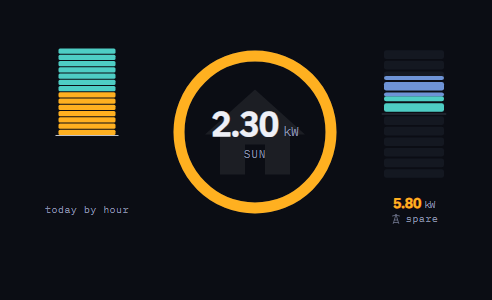
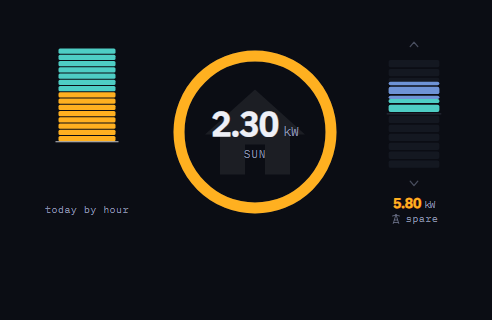
Mark which end of the column is out and which is in
The two directions were only named in the words underneath. Two small arrows
now sit above and below a needle column, in a band added to the window rather
than taken out of the track, so no existing geometry moved. They can be
switched off, and the day strip and the paired columns never get them: neither
has an up and a down to explain.

Making room for them exposed something older. The column was sized by height
with a fixed width, so a taller drawing was letterboxed and came out narrower
than the one beside it. Width is what a layout budgets for, so width is what
is set now and the height follows the drawing — the marks cost height, which
is what the helper text promised.

Claude-Session: https://claude.ai/code/session_01WYfcA1x3pZN41ubiYaXPxj

diff --git a/src/config.ts b/src/config.ts
@@ -31,6 +31,7 @@ export const DEFAULTS = {
     meter_steps: 6,
     meter_style: "blocks" as const,
     meter_today: false,
+    meter_marks: true,
     meter_second: "none" as const,
     meter_second_scope: "all" as const,
     meter_scope: "grid" as const,
@@ -525,7 +526,13 @@ export function getConfigForm(locale?: string, current?: PowerOriginCardConfig) 
             name: "meter_steps",
             selector: { number: { min: 3, max: 14, mode: "box" } }
           }),
-          ...only(gauge, { name: "meter_today", selector: { boolean: {} } })
+          ...only(gauge, {
+            type: "grid",
+            schema: [
+              { name: "meter_marks", selector: { boolean: {} } },
+              { name: "meter_today", selector: { boolean: {} } }
+            ]
+          })
         ]
       }
     ),
@@ -718,6 +725,7 @@ export function getConfigForm(locale?: string, current?: PowerOriginCardConfig) 
     meter_steps: t("editor.meter_steps"),
     meter_style: t("editor.meter_style"),
     meter_today: t("editor.meter_today"),
+    meter_marks: t("editor.meter_marks"),
     meter_second: t("editor.meter_second"),
     meter_second_scope: t("editor.meter_second_scope"),
     meter_scope: t("editor.meter_scope"),
@@ -767,6 +775,7 @@ export function getConfigForm(locale?: string, current?: PowerOriginCardConfig) 
     columns: t("editor.help_columns"),
     meter_scope: t("editor.help_meter_scope"),
     meter_today: t("editor.help_meter_today"),
+    meter_marks: t("editor.help_meter_marks"),
     meter_second: t("editor.help_meter_second"),
     meter_second_scope: t("editor.help_meter_second_scope"),
     size: t("editor.help_size"),

diff --git a/tests/render.test.ts b/tests/render.test.ts
@@ -663,3 +663,30 @@ describe("what a tap does", () => {
     expect(events).toEqual([]);
   });
 });
+
+describe("which end of the column is which", () => {
+  it("marks both ends, and makes room for the marks", async () => {
+    const { root } = await render(baseConfig({ ring: { meter: true } }), SCENARIOS[0]);
+    expect(root.querySelectorAll(".meter-mark").length).toBe(2);
+    // The band is added to the window, never taken out of the track.
+    expect(root.querySelector("svg.meter")!.getAttribute("viewBox")).toBe("-8 -18 104 236");
+  });
+
+  it("gives the height back when they are switched off", async () => {
+    const { root } = await render(
+      baseConfig({ ring: { meter: true, meter_marks: false } }),
+      SCENARIOS[0]
+    );
+    expect(root.querySelector(".meter-mark")).toBeNull();
+    expect(root.querySelector("svg.meter")!.getAttribute("viewBox")).toBe("0 0 88 200");
+  });
+
+  it("leaves the day strip alone, which has no up and down", async () => {
+    const foggy = SCENARIOS.find((s) => s.name === "foggy morning, three sources")!;
+    const { root } = await render(
+      baseConfig({ ring: { meter: true, meter_style: "day" } }),
+      foggy
+    );
+    expect(root.querySelector(".meter-mark")).toBeNull();
+  });
+});

diff --git a/src/localize.ts b/src/localize.ts
@@ -42,6 +42,8 @@ const en: Table = {
   "editor.column_right": "The right column",
   "editor.scope_left": "What the left column measures",
   "editor.scope_right": "What the right column measures",
+  "editor.meter_marks": "Out and in at the ends",
+  "editor.help_meter_marks": "Two small arrows at the top and bottom of the column, so which end means which needs no reading. They take a little of the column's height.",
   "meter.day": "today by hour",
   "meter.balance": "roof against house",
   "meter.spare": "roof spare",
@@ -257,6 +259,8 @@ const de: Table = {
   "editor.column_right": "Die rechte Säule",
   "editor.scope_left": "Was die linke Säule misst",
   "editor.scope_right": "Was die rechte Säule misst",
+  "editor.meter_marks": "Raus und rein an den Enden",
+  "editor.help_meter_marks": "Zwei kleine Pfeile oben und unten an der Säule, damit man nicht lesen muss, welches Ende was bedeutet. Sie kosten ein wenig Säulenhöhe.",
   "meter.day": "heute nach Stunden",
   "meter.balance": "Dach gegen Haus",
   "meter.spare": "Dach übrig",

diff --git a/src/styles.ts b/src/styles.ts
@@ -108,8 +108,8 @@ export const cardStyles = css`
 
   .meter {
     display: block;
-    height: 150px;
     width: 66px;
+    height: auto;
     flex: 0 0 auto;
   }
 
@@ -760,7 +760,6 @@ export const cardStyles = css`
     }
 
     .ring-group.solo .meter {
-      height: 186px;
       width: 82px;
     }
   }
@@ -771,7 +770,6 @@ export const cardStyles = css`
   }
 
   .ring-group.size-s .meter {
-    height: 128px;
     width: 60px;
   }
 
@@ -780,7 +778,6 @@ export const cardStyles = css`
   }
 
   .ring-group.size-m .meter {
-    height: 150px;
     width: 66px;
   }
 
@@ -789,7 +786,6 @@ export const cardStyles = css`
   }
 
   .ring-group.size-l .meter {
-    height: 190px;
     width: 82px;
   }
 
@@ -898,5 +894,14 @@ export const cardStyles = css`
     stroke-width: 1.6;
     stroke-dasharray: 3 3;
     opacity: 0.4;
+  }
+
+  .meter-mark {
+    fill: none;
+    stroke: var(--sst-muted);
+    stroke-width: 2;
+    stroke-linecap: round;
+    stroke-linejoin: round;
+    opacity: 0.5;
   }
 `;

diff --git a/src/power-origin-card.ts b/src/power-origin-card.ts
@@ -780,7 +780,13 @@ export class PowerOriginCard extends LitElement {
 
     return html`
       <div class="meter-block">
-      <svg class="meter" viewBox="0 0 88 ${METER_HEIGHT}" role="img" aria-label="${label}">
+      <svg class="meter" role="img" aria-label="${label}"
+           viewBox="${config.ring.meter_marks ? `-8 -18 104 ${METER_HEIGHT + 36}` : `0 0 88 ${METER_HEIGHT}`}">
+        ${config.ring.meter_marks
+          ? svg`
+            <path class="meter-mark" d="M38,-6 L44,-13 L50,-6"></path>
+            <path class="meter-mark" d="M38,${METER_HEIGHT + 6} L44,${METER_HEIGHT + 13} L50,${METER_HEIGHT + 6}"></path>`
+          : nothing}
         ${
           style === "blocks"
             ? meter.segments.map(

diff --git a/src/types.ts b/src/types.ts
@@ -100,6 +100,7 @@ export interface RingOptions {
   /** A continuous band or stepped blocks. */
   meter_style?: MeterStyle;
   meter_today?: boolean;
+  meter_marks?: boolean;
   meter_second?: MeterStyle | "none";
   meter_second_scope?: MeterScope;
   meter_scope?: MeterScope;

diff --git a/docs/OPTIONS.md b/docs/OPTIONS.md
@@ -127,6 +127,7 @@ today:
 | `ring.rings` | `single` | One ring, two rings, or the clock. |
 | `ring.inner` | `icon` | Behind the centre figure: `icon`, `load` for the day's consumption curve, or `none`. |
 | `ring.meter_today` | `false` | A faint band for how far the needle swung today, in both directions. |
+| `ring.meter_marks` | `true` | Small arrows at the two ends of a needle column, so which end means which needs no reading. |
 | `ring.meter_second_scope` | `all` | Which boundary the second column watches, when it is a needle. Set it to the other one, or both needles draw the same picture. |
 | `ring.clock_marks` | `true` | Sun and moon on the clock dial, so it is clear which way round it reads. |
 | `today.origin_style` | `bar` | The day bar as shares, or as a `band` with one cell per hour. |
